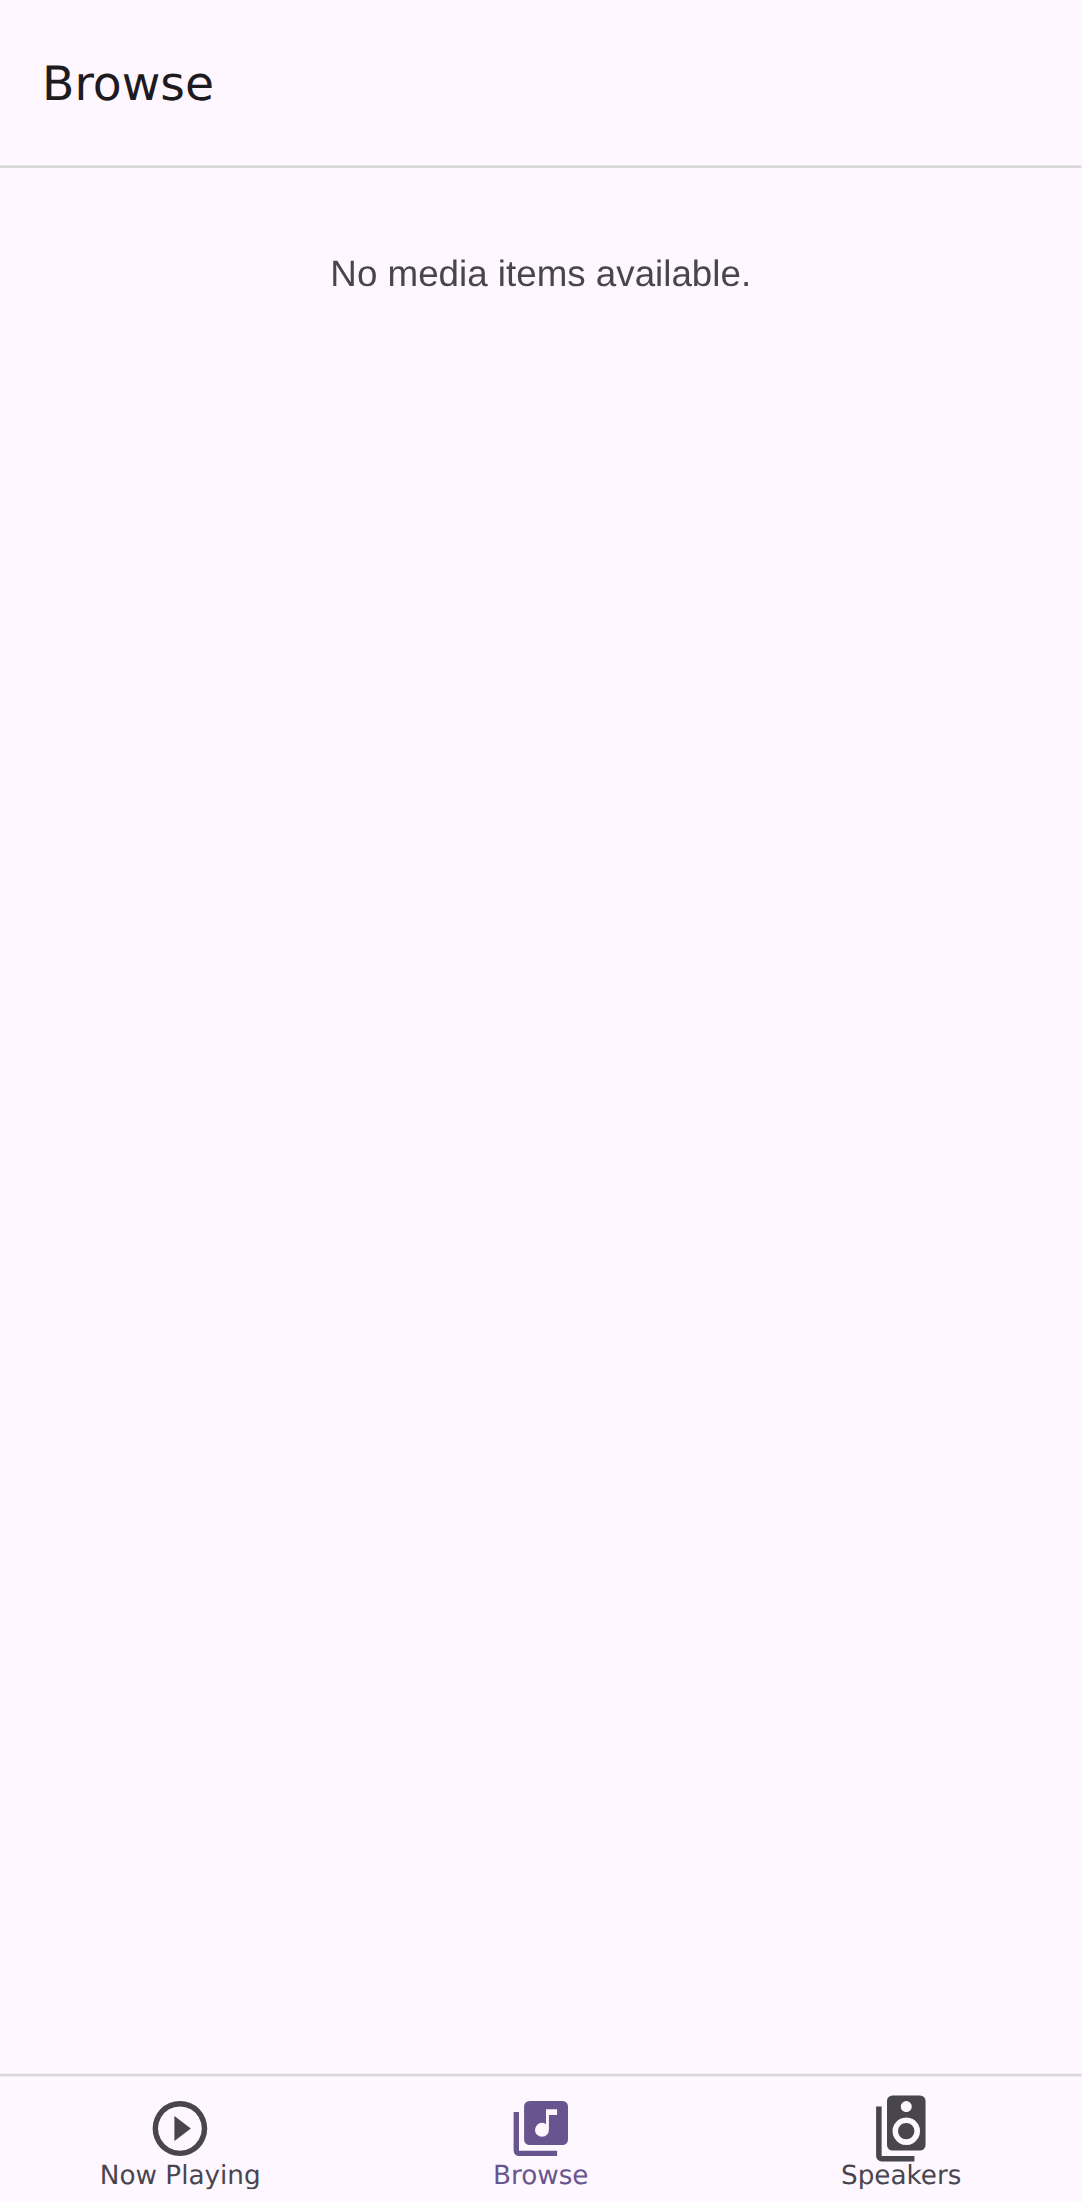
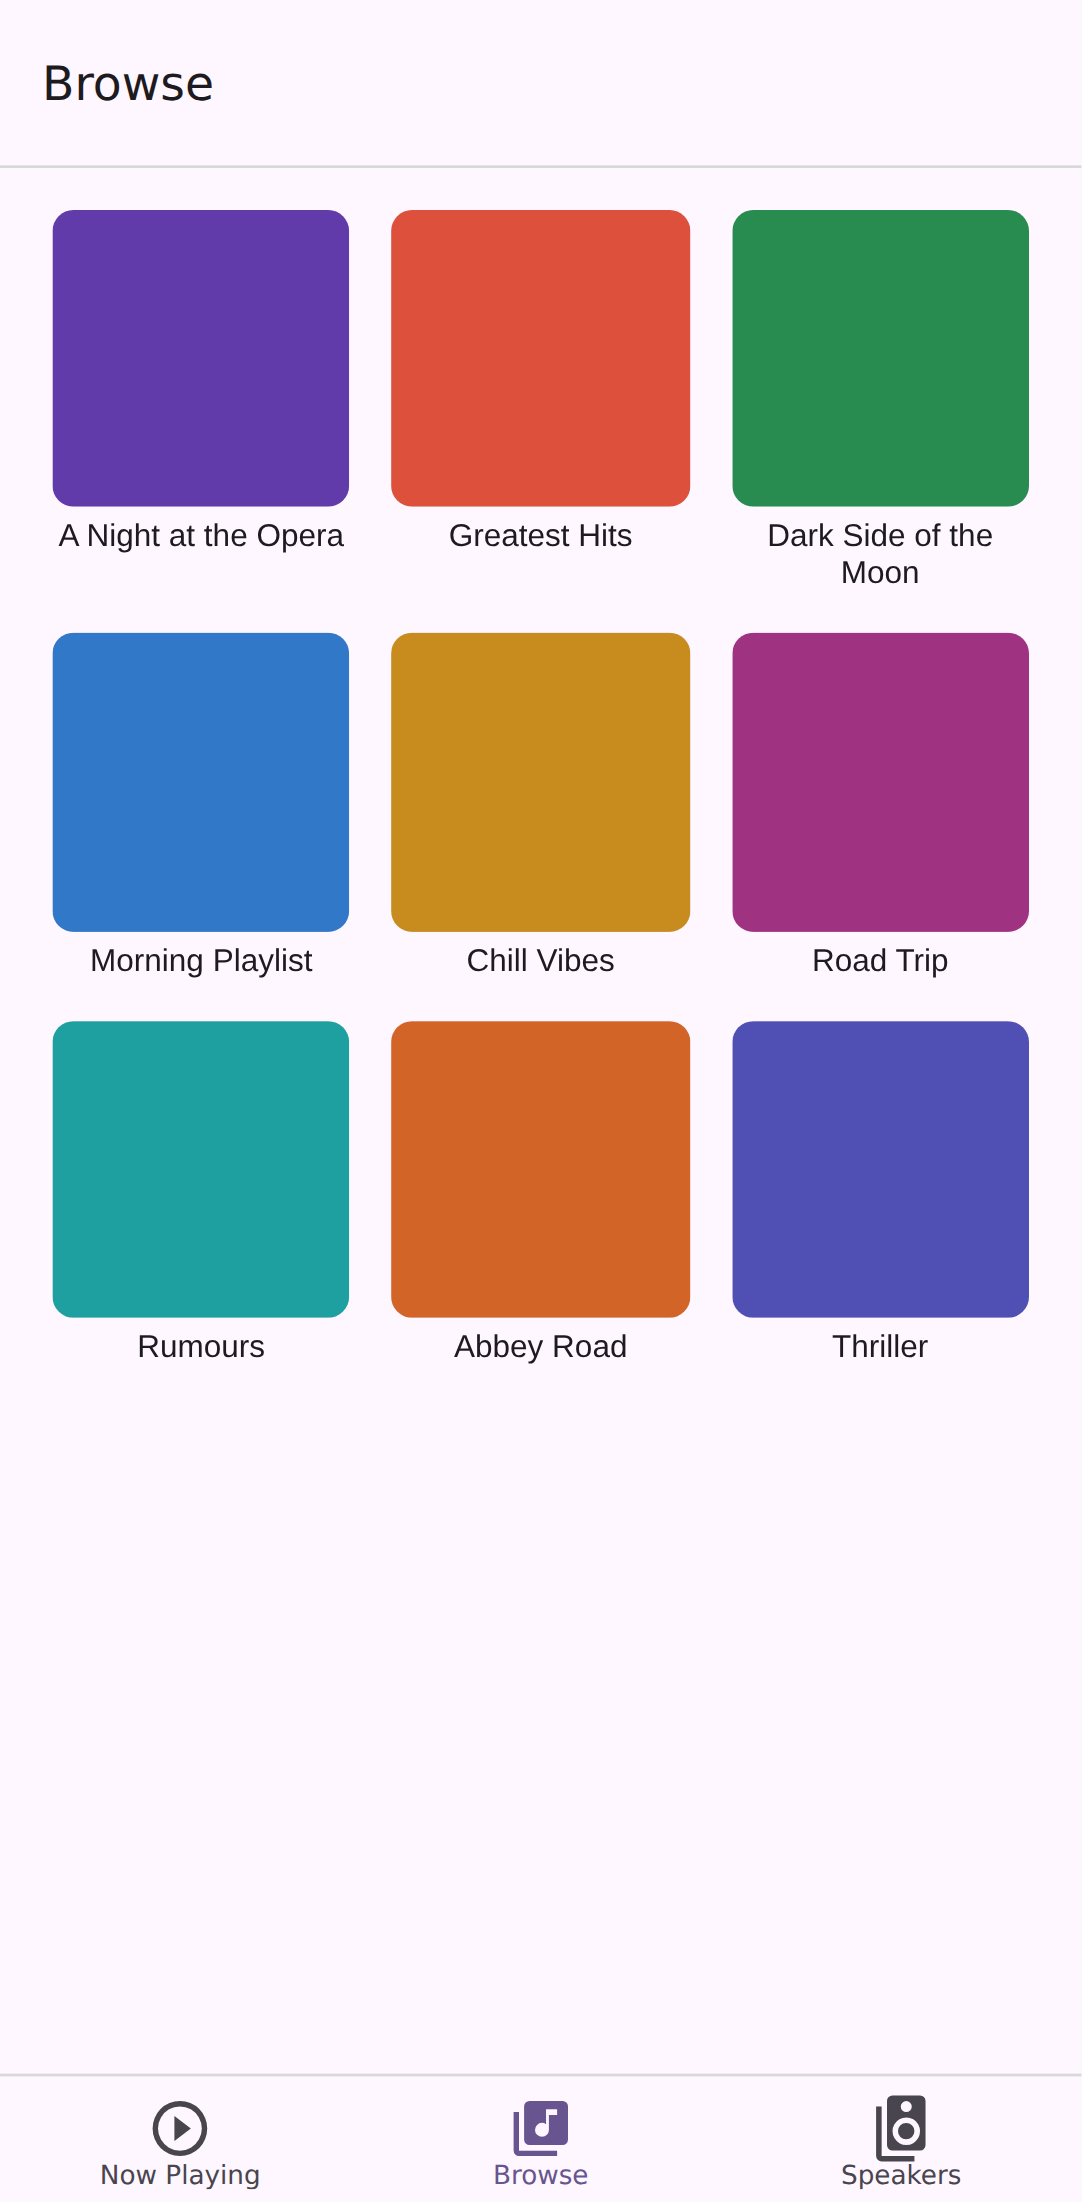
Add mock media browser data with coloured thumbnails
Handle media_player/browse_media in the WebSocket mock to return 9 albums
and playlists. Route /api/mock-thumb/* in the spec to serve distinct
solid-colour PNGs so the browser grid renders fully in screenshots.

https://claude.ai/code/session_016TZigo2N76jrDcSH937uuR

diff --git a/e2e/hass-mock.js b/e2e/hass-mock.js
@@ -111,6 +111,31 @@
       return;
     }
 
+    if (msg.type === 'media_player/browse_media') {
+      setTimeout(function () {
+        self._reply(id, {
+          title: 'Music',
+          media_class: 'directory',
+          media_content_type: 'library',
+          media_content_id: '',
+          can_expand: true,
+          can_play: false,
+          children: [
+            { title: 'A Night at the Opera', media_content_id: 'album:1', media_content_type: 'album', media_class: 'album', can_play: true, can_expand: true, thumbnail: '/api/mock-thumb/1' },
+            { title: 'Greatest Hits', media_content_id: 'album:2', media_content_type: 'album', media_class: 'album', can_play: true, can_expand: true, thumbnail: '/api/mock-thumb/2' },
+            { title: 'Dark Side of the Moon', media_content_id: 'album:3', media_content_type: 'album', media_class: 'album', can_play: true, can_expand: true, thumbnail: '/api/mock-thumb/3' },
+            { title: 'Morning Playlist', media_content_id: 'playlist:1', media_content_type: 'playlist', media_class: 'playlist', can_play: true, can_expand: true, thumbnail: '/api/mock-thumb/4' },
+            { title: 'Chill Vibes', media_content_id: 'playlist:2', media_content_type: 'playlist', media_class: 'playlist', can_play: true, can_expand: true, thumbnail: '/api/mock-thumb/5' },
+            { title: 'Road Trip', media_content_id: 'playlist:3', media_content_type: 'playlist', media_class: 'playlist', can_play: true, can_expand: true, thumbnail: '/api/mock-thumb/6' },
+            { title: 'Rumours', media_content_id: 'album:4', media_content_type: 'album', media_class: 'album', can_play: true, can_expand: true, thumbnail: '/api/mock-thumb/7' },
+            { title: 'Abbey Road', media_content_id: 'album:5', media_content_type: 'album', media_class: 'album', can_play: true, can_expand: true, thumbnail: '/api/mock-thumb/8' },
+            { title: 'Thriller', media_content_id: 'album:6', media_content_type: 'album', media_class: 'album', can_play: true, can_expand: true, thumbnail: '/api/mock-thumb/9' },
+          ],
+        });
+      }, 10);
+      return;
+    }
+
     // supported_features, call_service, unsubscribe_events, get_states, etc.
     if (id != null) {
       setTimeout(function () { self._reply(id, null); }, 10);

diff --git a/e2e/screenshots.spec.ts b/e2e/screenshots.spec.ts
@@ -39,11 +39,30 @@ test.beforeAll(() => {
   fs.mkdirSync(DIR, { recursive: true });
 });
 
+// Distinct colours for the 9 mock browser thumbnails.
+const THUMB_COLORS: [number, number, number][] = [
+  [98,  59,  171], // purple
+  [220, 80,  60],  // red
+  [40,  140, 80],  // green
+  [50,  120, 200], // blue
+  [200, 140, 30],  // amber
+  [160, 50,  130], // magenta
+  [30,  160, 160], // teal
+  [210, 100, 40],  // orange
+  [80,  80,  180], // indigo
+];
+
 test.beforeEach(async ({ page }) => {
-  // Serve mock album art for the living room player (intercepted before page load).
+  // Serve mock album art for the Now Playing screen.
   await page.route('**/api/mock-artwork', route =>
     route.fulfill({ contentType: 'image/png', body: solidPng(300, 300, 98, 59, 171) })
   );
+  // Serve mock thumbnails for the browser grid (one colour per index 1-9).
+  await page.route('**/api/mock-thumb/**', route => {
+    const idx = parseInt(route.request().url().split('/').pop() ?? '1', 10);
+    const [r, g, b] = THUMB_COLORS[(idx - 1) % THUMB_COLORS.length] ?? [128, 128, 128];
+    return route.fulfill({ contentType: 'image/png', body: solidPng(120, 120, r, g, b) });
+  });
   await page.addInitScript({ path: MOCK });
 });
 
@@ -69,7 +88,8 @@ test('browse - mobile', async ({ page, isMobile }) => {
   await goToPlayer(page);
   await page.getByText('Browse', { exact: true }).click();
   await page.waitForURL('**/browser**', { timeout: 5000 });
-  await page.waitForTimeout(600);
+  await page.waitForSelector('text=A Night at the Opera', { timeout: 5000 });
+  await page.waitForTimeout(400);
   await page.screenshot({ path: path.join(DIR, 'browse-mobile.png') });
 });
 
